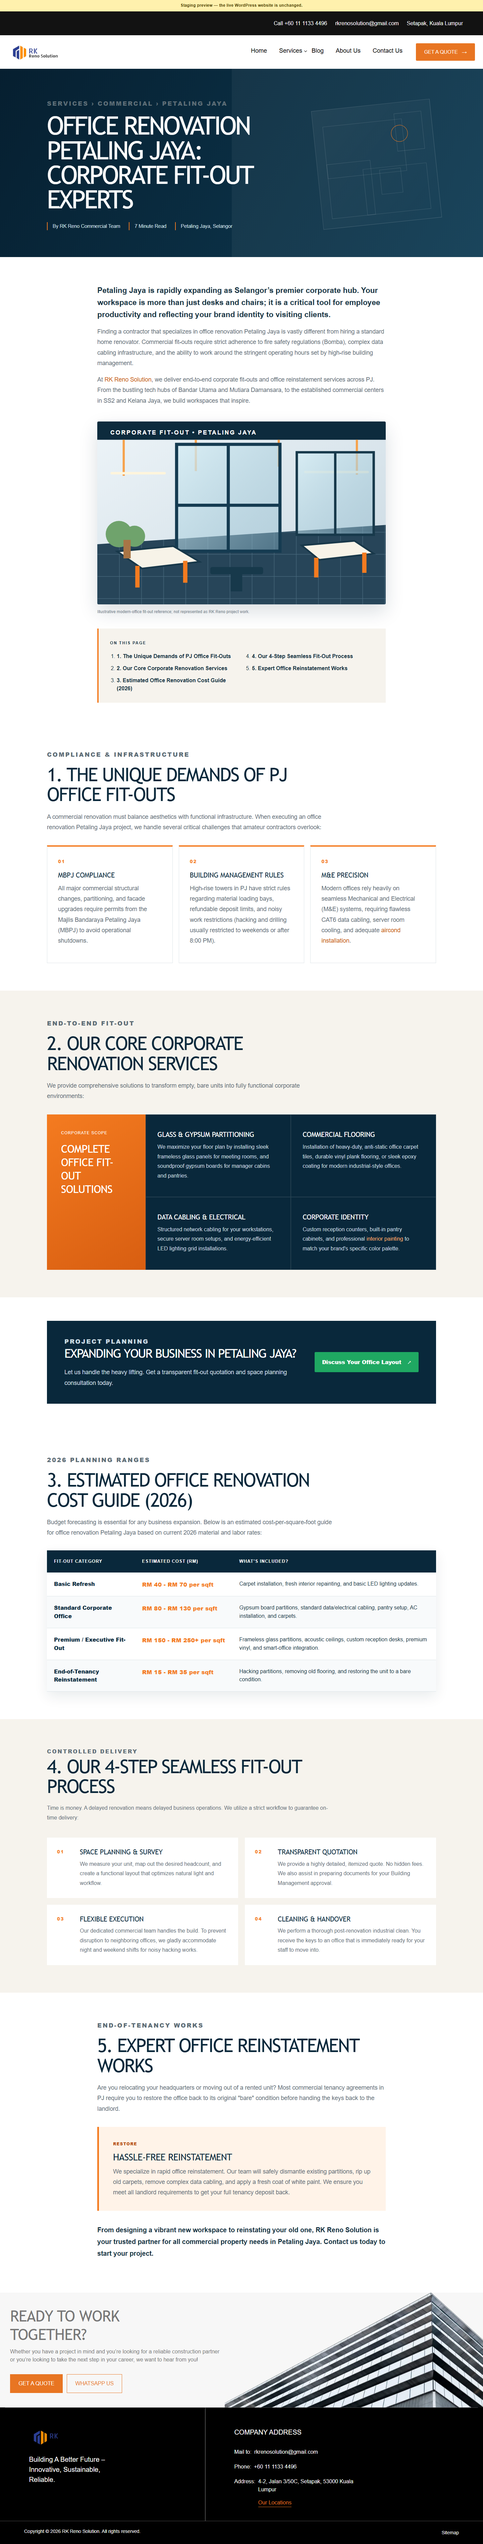
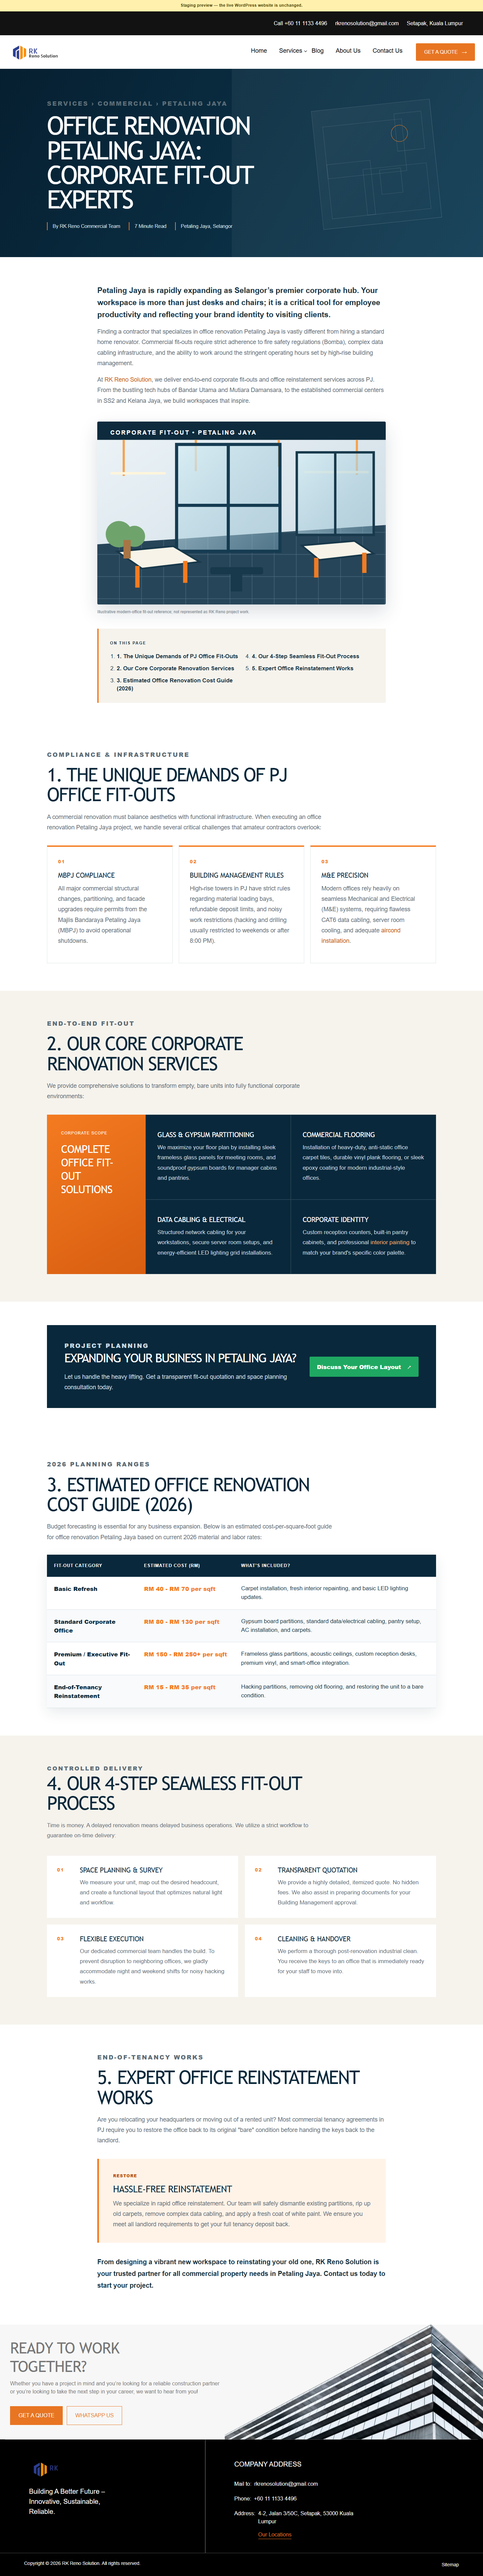
Align CI validation with Petaling Jaya recovery

Changed region(s): [[0.0312, 0.4047, 1.0, 0.9962], [0.0938, 0.0311, 0.8438, 0.3736]]

diff --git a/src/styles/office-renovation-petaling-jaya.css b/src/styles/office-renovation-petaling-jaya.css
@@ -1,3 +1,5 @@
 .pj-office{--navy:#09283b;--navy2:#103d55;--orange:#f47b20;--ink:#173141;--muted:#5d6d76;--line:#dbe3e7;--warm:#f6f3ed;color:var(--ink);background:#fff;font-family:Arial,Helvetica,sans-serif}.pj-office *{box-sizing:border-box}.pj-wrap,.pj-wide,.pj-reading{width:min(calc(100% - 40px),1160px);margin-inline:auto}.pj-reading{max-width:860px}.pj-hero{position:relative;overflow:hidden;padding:88px 0 80px;background:linear-gradient(120deg,#061f30,#0e3b53);color:#fff}.pj-hero:after{content:"";position:absolute;inset:0;background:linear-gradient(90deg,transparent 48%,rgba(255,255,255,.05) 48%);pointer-events:none}.pj-hero-grid{display:grid;grid-template-columns:1.45fr .7fr;gap:70px;align-items:center;position:relative;z-index:1}.pj-kicker{text-transform:uppercase;letter-spacing:.18em;font-size:.76rem;font-weight:800;color:var(--orange);margin:0 0 14px}.pj-hero h1{font-size:clamp(2.9rem,5.2vw,5.2rem);line-height:.98;letter-spacing:-.055em;max-width:840px;margin:0}.pj-meta{display:flex;flex-wrap:wrap;gap:10px 26px;margin-top:30px;font-size:.91rem;color:#d2e4ec}.pj-meta span{padding-left:15px;border-left:2px solid var(--orange)}.pj-plan{aspect-ratio:1;border:1px solid rgba(255,255,255,.18);transform:rotate(-6deg);position:relative;background:linear-gradient(135deg,rgba(255,255,255,.05),transparent)}.pj-plan:before,.pj-plan:after,.pj-plan span{content:"";position:absolute;border:1px solid rgba(255,255,255,.16)}.pj-plan:before{inset:14% 25% 42% 8%}.pj-plan:after{inset:53% 8% 8% 38%}.pj-plan span:nth-child(1){inset:9% 8% 59% 69%}.pj-plan span:nth-child(2){inset:46% 55% 8% 8%}.pj-plan span:nth-child(3){inset:55% 30% 24% 52%}.pj-plan span:nth-child(4){width:50px;height:50px;border-radius:50%;right:21%;top:19%;border-color:var(--orange)}.pj-intro{padding:82px 0 42px}.pj-office p{font-size:1.1rem;line-height:1.78;color:var(--muted)}.pj-office a{color:#c9560e;text-decoration-thickness:1px;text-underline-offset:4px}.pj-lead{font-size:1.42rem!important;line-height:1.58!important;color:var(--ink)!important;font-weight:650}.pj-intro figure{margin:46px 0 36px}.pj-intro figure img{display:block;width:100%;height:auto;border-radius:4px;box-shadow:0 22px 55px rgba(13,42,58,.15)}.pj-intro figcaption{font-size:.76rem;color:#71818a;margin-top:10px}.pj-toc{margin:38px 0 15px;padding:30px 34px;background:var(--warm);border-left:4px solid var(--orange)}.pj-toc strong{text-transform:uppercase;letter-spacing:.13em;font-size:.78rem}.pj-toc ol{columns:2;column-gap:38px;margin:16px 0 0;padding-left:20px}.pj-toc li{break-inside:avoid;margin:0 0 12px}.pj-toc a{color:var(--ink);font-weight:700;text-decoration:none}.pj-section{padding:82px 0}.pj-section h2,.pj-cta h2{font-size:clamp(2.15rem,4vw,3.5rem);line-height:1.06;letter-spacing:-.045em;margin:0 0 22px;color:var(--navy);max-width:850px}.pj-section-intro{max-width:850px}.pj-three{display:grid;grid-template-columns:repeat(3,1fr);gap:18px;margin-top:38px}.pj-three article{padding:32px;border:1px solid var(--line);border-top:4px solid var(--orange)}.pj-three article>span,.pj-process li>span{font-size:.82rem;font-weight:800;letter-spacing:.15em;color:var(--orange)}.pj-office h3{font-size:1.32rem;line-height:1.25;color:var(--navy);margin:16px 0 10px}.pj-services,.pj-process{background:var(--warm)}.pj-service-panel{display:grid;grid-template-columns:.68fr 2fr;background:var(--navy);color:#fff;margin-top:38px}.pj-panel-heading{padding:42px;background:linear-gradient(150deg,var(--orange),#d85e11)}.pj-panel-heading span{text-transform:uppercase;letter-spacing:.13em;font-size:.72rem}.pj-panel-heading h3{font-size:2rem;color:#fff}.pj-service-grid{display:grid;grid-template-columns:1fr 1fr}.pj-service-grid article{padding:30px 34px;border:1px solid rgba(255,255,255,.12)}.pj-service-grid h3{color:#fff}.pj-service-grid p{color:#c9dae2;font-size:1rem}.pj-service-grid a{color:#ffad6b}.pj-cta{display:flex;justify-content:space-between;align-items:center;gap:40px;margin-block:70px;padding:46px 52px;background:var(--navy);color:#fff}.pj-cta h2{color:#fff;font-size:2.3rem}.pj-cta p{color:#c9dae2;margin-bottom:0}.pj-cta>a{flex:0 0 auto;background:#1fa862;color:#fff;text-decoration:none;font-weight:800;padding:18px 22px;border-radius:3px}.pj-cta>a span{margin-left:18px}.pj-table-wrap{overflow-x:auto;margin-top:36px;box-shadow:0 14px 38px rgba(11,42,58,.09)}.pj-office table{width:100%;border-collapse:collapse;min-width:760px}.pj-office th{background:var(--navy);color:#fff;text-align:left;padding:21px;font-size:.83rem;text-transform:uppercase;letter-spacing:.07em}.pj-office td{padding:22px 21px;border-bottom:1px solid var(--line);vertical-align:top;line-height:1.55}.pj-office tr:nth-child(even) td{background:#f8fafb}.pj-office td:first-child{font-weight:800;color:var(--navy)}.pj-office td.price{color:var(--orange);font-size:1.08rem;font-weight:800;white-space:nowrap}.pj-process ol{list-style:none;padding:0;margin:45px 0 0;display:grid;grid-template-columns:1fr 1fr;gap:20px}.pj-process li{display:grid;grid-template-columns:55px 1fr;gap:13px;padding:30px;background:#fff}.pj-process h3{margin:0 0 8px}.pj-process p{margin:0;font-size:1rem}.pj-alert{margin:38px 0;padding:38px 42px;border-left:5px solid var(--orange);background:#fff3e8}.pj-alert>span{text-transform:uppercase;letter-spacing:.14em;color:#b64b0e;font-size:.72rem;font-weight:800}.pj-alert h3{font-size:1.75rem;margin:10px 0}.pj-alert p{margin:0}.pj-closing{font-size:1.23rem!important;color:var(--ink)!important;font-weight:650;margin-top:40px}
 @media(max-width:800px){.pj-hero{padding:65px 0}.pj-hero-grid{grid-template-columns:1fr}.pj-plan{display:none}.pj-three,.pj-process ol{grid-template-columns:1fr}.pj-service-panel{grid-template-columns:1fr}.pj-toc ol{columns:1}.pj-cta{align-items:flex-start;flex-direction:column}.pj-service-grid{grid-template-columns:1fr 1fr}}
-@media(max-width:520px){.pj-wrap,.pj-wide,.pj-reading{width:min(calc(100% - 28px),1160px)}.pj-hero h1{font-size:2.72rem}.pj-meta{display:grid;gap:9px}.pj-section,.pj-intro{padding-block:56px}.pj-service-grid{grid-template-columns:1fr}.pj-panel-heading,.pj-service-grid article,.pj-three article{padding:25px}.pj-cta{width:calc(100% - 28px);padding:30px 24px;margin-block:50px}.pj-cta>a{width:100%;text-align:center}.pj-toc{padding:25px 24px}.pj-office p{font-size:1.04rem}.pj-lead{font-size:1.25rem!important}.pj-alert{padding:28px 24px}}
+@media(max-width:520px){.pj-wrap,.pj-wide,.pj-reading{width:min(calc(100% - 28px),1160px)}.pj-hero h1{font-size:2.72rem}.pj-meta{display:grid;gap:9px}.pj-section,.pj-intro{padding-block:56px}.pj-service-grid{grid-template-columns:1fr}.pj-panel-heading,.pj-service-grid article,.pj-three article{padding:25px}.pj-cta{width:calc(100% - 28px);padding:30px 24px;margin-block:50px}.pj-cta>a{width:100%;text-align:center}.pj-toc{padding:25px 24px}.pj-office p{font-size:1.0625rem}.pj-lead{font-size:1.25rem!important}.pj-alert{padding:28px 24px}}
+.pj-office{font-size:17px}
+.pj-service-grid p,.pj-process p{font-size:1.0625rem}
